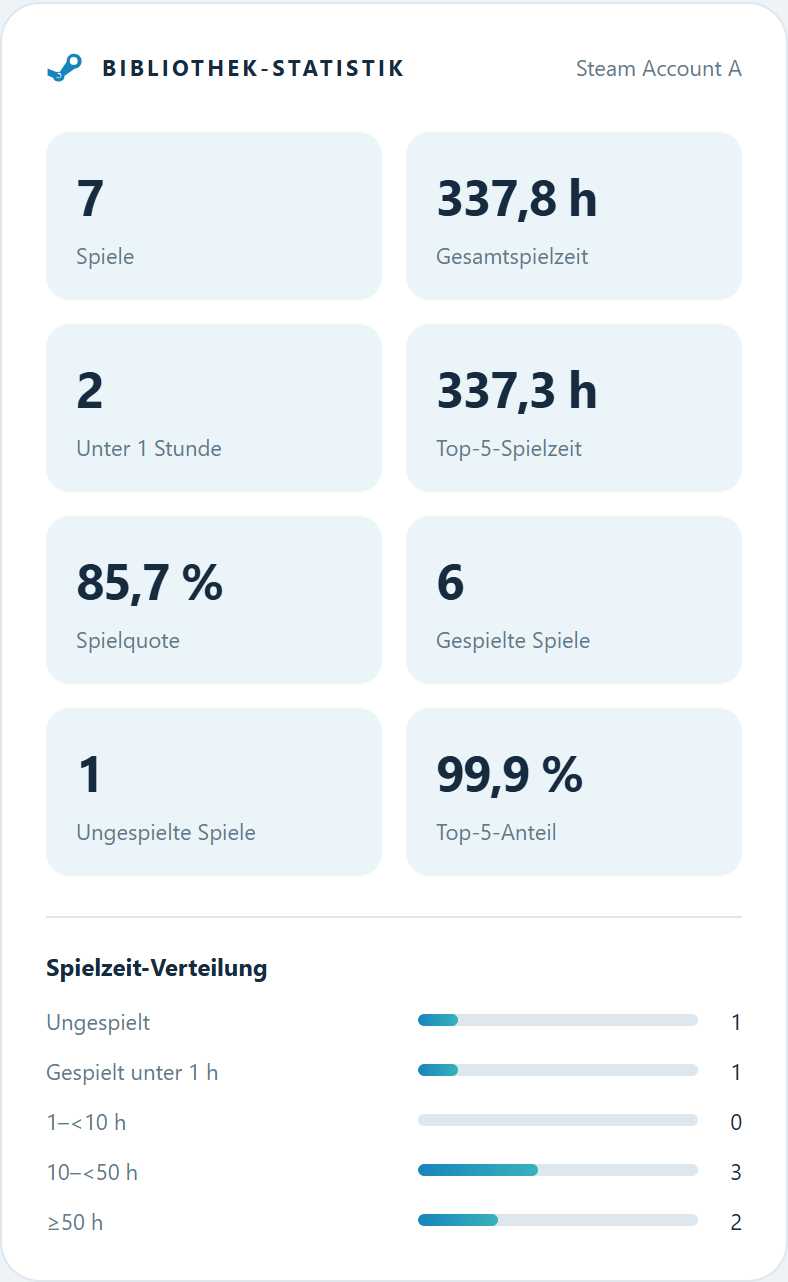
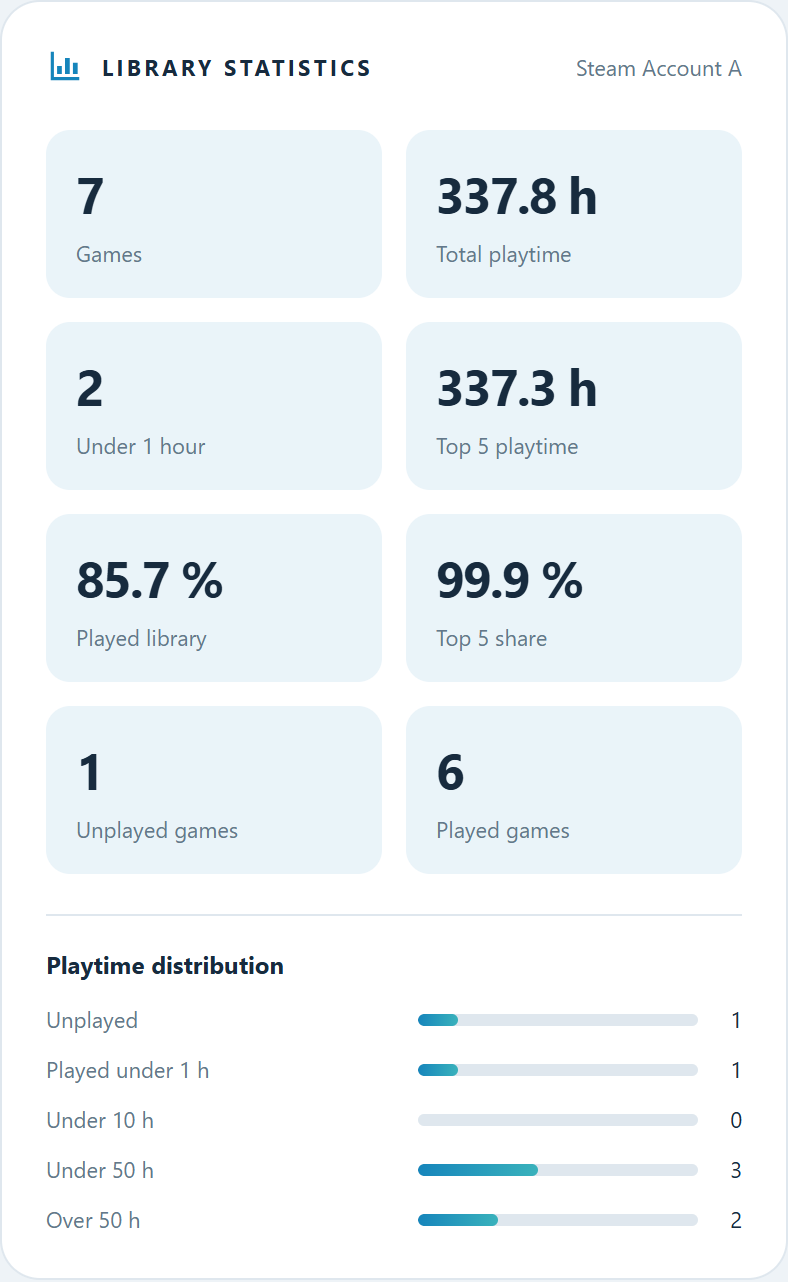
Release Steam Tracker 0.9.0

diff --git a/docs/steam_tracker_card.md b/docs/steam_tracker_card.md
@@ -7,6 +7,11 @@ statistics, top-five games, friends, and full-library views. Detailed, compact,
 and single-line layouts are available. Friends and the full library include
 search and filtering or sorting. A visual editor selects the account, view, layout, appearance,
 language, and display options. Multiple cards can be combined into a dashboard.
+The editor can independently hide the upper-right account label and the title,
+preserving any custom title. Offline profiles show a relative last-online time
+below their status in detailed and compact layouts when `lastlogoff` is available.
+Online players with a current game see “Playing: <game name>” there instead,
+using the same account's existing current-game sensor without extra Steam requests.
 
 ![Steam Tracker Card with fictional demo accounts and games](images/steam_tracker_card_preview.png)
 
@@ -19,12 +24,14 @@ Library statistics now include played percentage, unplayed games, top-five
 playtime share, and a five-group playtime distribution when the updated
 integration provides those attributes. Older sensor data keeps the original
 statistics; detailed and compact layouts show the distribution bars.
+The card uses view-specific heading icons, separators and top-aligned artwork
+for recent/top-five games, and the revised library tile order and distribution labels.
 
 ![Library statistics with fictional demo data](images/steam_tracker_library_statistics.png)
 
 It identifies registered sensors using the `steam_tracker` platform and their
-existing unique IDs. Account devices are available from integration commit
-`89b2fb8`; older registered entities can be grouped by config entry. Manual
+existing unique IDs. Account devices are available from integration 0.6.0;
+older registered entities can be grouped by config entry. Manual
 assignments support legacy YAML sensors and users without registry access.
 
 The local project is at `../steam-tracker-card` relative to this repository and
@@ -32,8 +39,9 @@ contains English/German installation instructions, `dist/steam-tracker-card.js`,
 an interactive preview, and automated logic/browser checks. The GitHub repository
 is [lefidelity/steam-tracker-card](https://github.com/lefidelity/steam-tracker-card).
 HACS validation and tests in a real Home Assistant instance are still pending.
-The integration is released as 0.7.1 and the card as 0.7.2; install and update
-them separately to use the new library statistics.
+The integration is released as 0.9.0 and the card as 0.8.0; install and update
+them separately. Library additions require integration 0.7.1 or newer;
+profile details use existing status and current-game attributes.
 
 See the card's [installation instructions](https://github.com/lefidelity/steam-tracker-card#installation)
 for HACS custom repository and manual installation steps.
@@ -60,11 +68,18 @@ Einzeiler sind verfügbar; Freunde und Spiele besitzen Suche und Filter
 beziehungsweise Sortierung. Im visuellen Editor lassen sich Konto und Ansicht
 sowie Darstellung, Sprache und weitere Optionen auswählen. Die Karte liest
 vorhandene Sensoren und benötigt weder einen API-Key noch weitere Custom Cards.
+Kontoname rechts oben und Titel lassen sich getrennt ausblenden; ein eigener
+Titel bleibt gespeichert. Offline-Profile zeigen in Ausführlich und Kompakt die
+letzte Onlinezeit unter dem Status, sofern `lastlogoff` verfügbar ist.
+Bei online verbundenen Spielern mit laufendem Spiel steht dort stattdessen
+„Spielt: <Spielname>“, aus dem vorhandenen Spielsensor desselben Kontos.
 
 Die Bibliothek-Statistik ergänzt Spielquote, ungespielte Spiele, Top-5-Anteil und
 eine Spielzeit-Verteilung in fünf Gruppen, sobald die aktualisierte Integration
 die Attribute liefert. Ausführlich und Kompakt zeigen die Verteilung als Balken;
-ältere Sensordaten behalten die bisherige Darstellung.
+ältere Sensordaten behalten die bisherige Darstellung. Die Karte nutzt passende
+Titelsymbole, Trennlinien und oben bündige Bilder für kürzlich gespielte und
+Top-5-Spiele sowie die neue Kachelreihenfolge und Verteilungsbeschriftung.
 
 Das lokale Git-Projekt liegt neben dieser Integration im Ordner
 `steam-tracker-card`. Vorschau, deutsche Anleitung und Prüfungen sind dort
@@ -77,5 +92,6 @@ echten Home-Assistant-Instanz stehen noch aus.
 Für beide Projekte wird kein `hacs-`-Präfix benötigt. Das Integrationsrepository
 heißt auf GitHub `lefidelity/steam-tracker`; Dokumentation, Manifest, HACS-Link
 und lokales Git-Remote verwenden diesen Namen. Die Integration erscheint als
-Version 0.7.1, die Karte als 0.7.2; beide werden separat installiert. Die technische Domain bleibt
+Version 0.9.0, die Karte als 0.8.0; beide werden separat installiert.
+Die technische Domain bleibt
 `steam_tracker`; eine Änderung der Sensor-IDs ist für den Repository-Namen nicht nötig.

diff --git a/CHANGELOG.md b/CHANGELOG.md
@@ -1,5 +1,38 @@
 # Changelog
 
+## 0.9.0 - 2026-11-04
+
+### Changes
+
+- Update the companion-card documentation and fictional previews for Steam
+  Tracker Card 0.8.0: independent title/account-label visibility, offline
+  last-online time, online current-game details, view icons, separated game
+  rows, and revised library-statistics presentation.
+- Document all eight card views, the three layouts, and current compatibility
+  using release versions.
+- Bump the integration release to 0.9.0. Sensor behavior, attributes, update
+  intervals, configuration, and API request counts are unchanged from 0.7.1.
+
+### Updating from 0.7.1
+
+- Update the integration and restart Home Assistant. No sensor or dashboard
+  migration is required.
+- Update Steam Tracker Card separately to 0.8.0 and reload the browser. For a
+  manual card installation use `/local/steam-tracker-card.js?v=0.8.0` to refresh
+  the cache. Card UI improvements are supplied by that separate frontend asset.
+- Minimum supported Home Assistant version remains 2025.10.0.
+
+### Validation
+
+- Python syntax, integration/HACS JSON validation, and Git whitespace checks.
+- 18 regression tests on Python 3.13 with Home Assistant Core 2025.10.0 and
+  mocked Steam HTTP, including achievement scans, library minute boundaries,
+  recovery, request counts, and DE/EN template rendering.
+- Companion card: JavaScript syntax, 14 logic tests, and browser checks for
+  the updated UI, both languages, all layouts, account isolation, and mobile.
+- No authenticated Steam requests were made. Live Home Assistant frontend
+  behavior and HACS installation remain to be verified.
+
 ## 0.7.1 - 2026-11-03
 
 ### Changes

diff --git a/README.md b/README.md
@@ -170,8 +170,13 @@ sensor:
 
 A separate companion project, [**Steam Tracker Card**](https://github.com/lefidelity/steam-tracker-card),
 provides a visual editor for users configuring their dashboard.
-Its first version provides profile, current game, and recently played views,
-with account selection, German/English, and compact or detailed layouts.
+Steam Tracker Card 0.8.0 provides profile, current game, recently played,
+library statistics, player statistics, top-five games, friends, and full-library
+views, with account selection, German/English, and detailed, compact, or
+single-line layouts. The editor can independently hide the title and upper-right
+account label. Profile details show the last-online time while offline or the
+current game while online. Integration 0.9.0 supplies the existing sensor data;
+install and update the card separately.
 It reads this integration's existing sensors and needs no additional Steam API
 credentials or custom-card dependencies.
 
